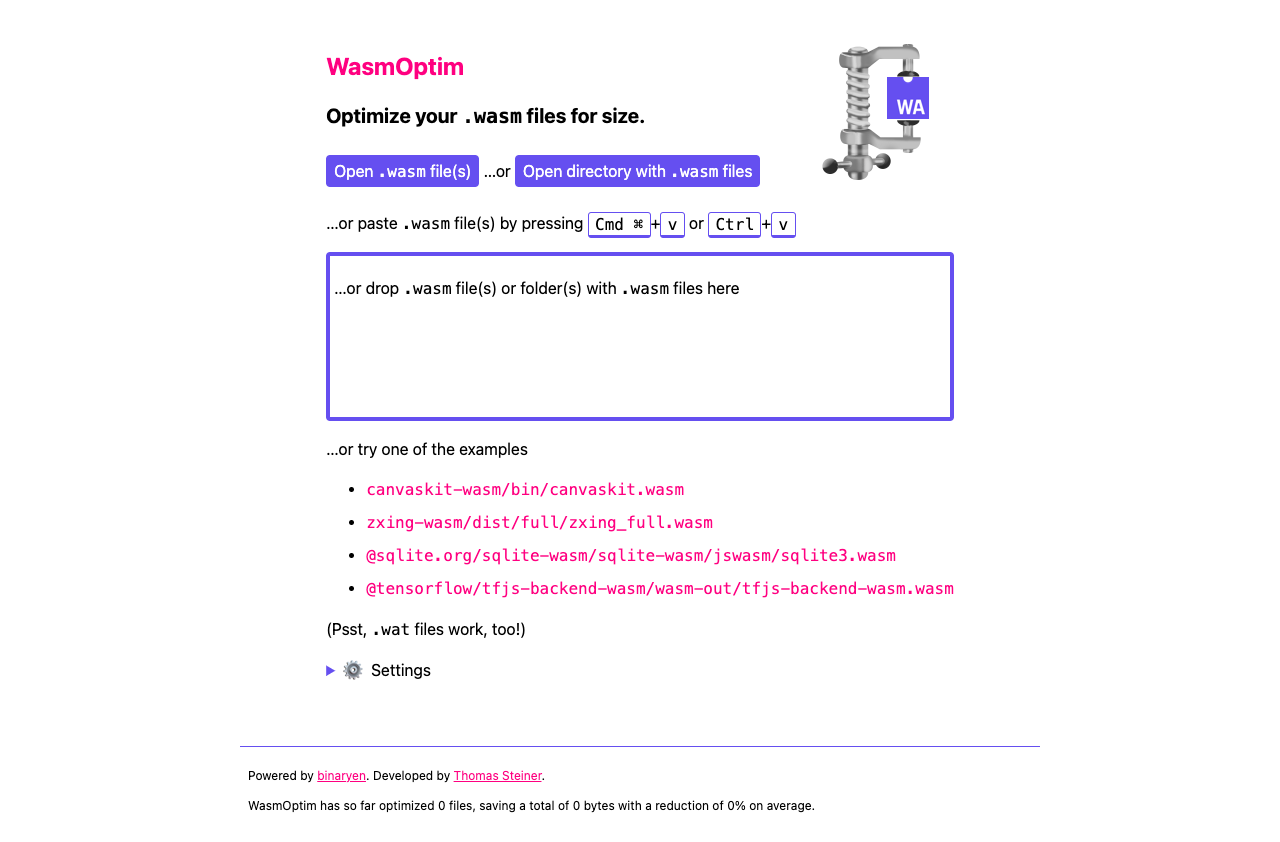
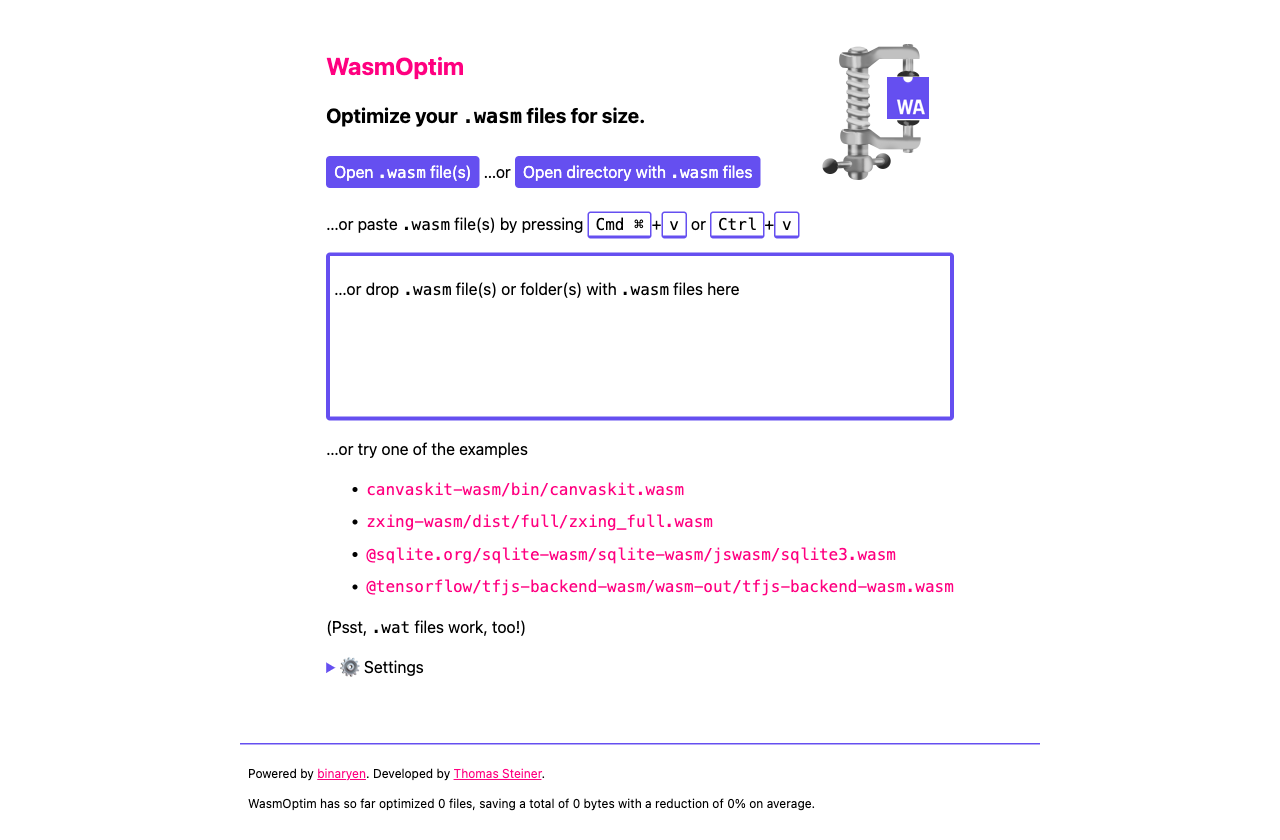
Nicer formatting of stats

diff --git a/docs/assets/index-vsgyoISD.js b/docs/assets/index-vsgyoISD.js
@@ -1,0 +1,7 @@
+(function(){const t=document.createElement("link").relList;if(t&&t.supports&&t.supports("modulepreload"))return;for(const o of document.querySelectorAll('link[rel="modulepreload"]'))r(o);new MutationObserver(o=>{for(const a of o)if(a.type==="childList")for(const s of a.addedNodes)s.tagName==="LINK"&&s.rel==="modulepreload"&&r(s)}).observe(document,{childList:!0,subtree:!0});function n(o){const a={};return o.integrity&&(a.integrity=o.integrity),o.referrerPolicy&&(a.referrerPolicy=o.referrerPolicy),o.crossOrigin==="use-credentials"?a.credentials="include":o.crossOrigin==="anonymous"?a.credentials="omit":a.credentials="same-origin",a}function r(o){if(o.ep)return;o.ep=!0;const a=n(o);fetch(o.href,a)}})();const ce="modulepreload",le=function(e){return"/wasmoptim/"+e},G={},z=function(t,n,r){if(!n||n.length===0)return t();const o=document.getElementsByTagName("link");return Promise.all(n.map(a=>{if(a=le(a),a in G)return;G[a]=!0;const s=a.endsWith(".css"),c=s?'[rel="stylesheet"]':"";if(!!r)for(let l=o.length-1;l>=0;l--){const m=o[l];if(m.href===a&&(!s||m.rel==="stylesheet"))return}else if(document.querySelector(`link[href="${a}"]${c}`))return;const d=document.createElement("link");if(d.rel=s?"stylesheet":ce,s||(d.as="script",d.crossOrigin=""),d.href=a,document.head.appendChild(d),s)return new Promise((l,m)=>{d.addEventListener("load",l),d.addEventListener("error",()=>m(new Error(`Unable to preload CSS for ${a}`)))})})).then(()=>t()).catch(a=>{const s=new Event("vite:preloadError",{cancelable:!0});if(s.payload=a,window.dispatchEvent(s),!s.defaultPrevented)throw a})},$="/wasmoptim/spinner.svg",y=new Map,K="FileSystemHandle"in window&&"getUniqueId"in FileSystemHandle.prototype,X=async e=>{for(const t of e)await t.handle.requestPermission({mode:"readwrite"})},de=async e=>{const t=[],n=async o=>{const a=await new Promise(s=>o.readEntries(s));await Promise.all(a.map(async s=>{s.isDirectory?await n(s.createReader()):t.push(s)}))},r=e.createReader();return await n(r),t},R=async(e,t,n=e.name,r)=>{const o=[],a=[];for await(const s of e.values()){const c=`${n}/${s.name}`;s.kind==="file"?a.push(s.getFile().then(i=>(i.directoryHandle=e,i.handle=s,Object.defineProperty(i,"webkitRelativePath",{configurable:!0,enumerable:!0,get:()=>c})))):s.kind==="directory"&&t&&o.push(R(s,t,c))}return[...(await Promise.all(o)).flat(),...await Promise.all(a)]},ue=["B","kB","MB","GB","TB","PB","EB","ZB","YB"],me=["B","KiB","MiB","GiB","TiB","PiB","EiB","ZiB","YiB"],fe=["b","kbit","Mbit","Gbit","Tbit","Pbit","Ebit","Zbit","Ybit"],pe=["b","kibit","Mibit","Gibit","Tibit","Pibit","Eibit","Zibit","Yibit"],Z=(e,t,n)=>{let r=e;return typeof t=="string"||Array.isArray(t)?r=e.toLocaleString(t,n):(t===!0||n!==void 0)&&(r=e.toLocaleString(void 0,n)),r};function w(e,t){if(!Number.isFinite(e))throw new TypeError(`Expected a finite number, got ${typeof e}: ${e}`);t={bits:!1,binary:!1,space:!0,...t};const n=t.bits?t.binary?pe:fe:t.binary?me:ue,r=t.space?" ":"";if(t.signed&&e===0)return` 0${r}${n[0]}`;const o=e<0,a=o?"-":t.signed?"+":"";o&&(e=-e);let s;if(t.minimumFractionDigits!==void 0&&(s={minimumFractionDigits:t.minimumFractionDigits}),t.maximumFractionDigits!==void 0&&(s={maximumFractionDigits:t.maximumFractionDigits,...s}),e<1){const l=Z(e,t.locale,s);return a+l+r+n[0]}const c=Math.min(Math.floor(t.binary?Math.log(e)/Math.log(1024):Math.log10(e)/3),n.length-1);e/=(t.binary?1024:1e3)**c,s||(e=e.toPrecision(3));const i=Z(Number(e),t.locale,s),d=n[c];return a+i+r+d}const k=(()=>{if(typeof self>"u")return!1;if("top"in self&&self!==top)try{top.window.document._=0}catch{return!1}return"showOpenFilePicker"in self})(),he=k?Promise.resolve().then(function(){return ke}):Promise.resolve().then(function(){return Fe});async function ye(...e){return(await he).default(...e)}const ge=k?Promise.resolve().then(function(){return Ee}):Promise.resolve().then(function(){return ze});async function we(...e){return(await ge).default(...e)}const ve=k?Promise.resolve().then(function(){return xe}):Promise.resolve().then(function(){return Ce});async function J(...e){return(await ve).default(...e)}const be=async e=>{const t=await e.getFile();return t.handle=e,t};var Se=async(e=[{}])=>{Array.isArray(e)||(e=[e]);const t=[];e.forEach((o,a)=>{t[a]={description:o.description||"Files",accept:{}},o.mimeTypes?o.mimeTypes.map(s=>{t[a].accept[s]=o.extensions||[]}):t[a].accept["*/*"]=o.extensions||[]});const n=await window.showOpenFilePicker({id:e[0].id,startIn:e[0].startIn,types:t,multiple:e[0].multiple||!1,excludeAcceptAllOption:e[0].excludeAcceptAllOption||!1}),r=await Promise.all(n.map(be));return e[0].multiple?r:r[0]},ke={__proto__:null,default:Se};function B(e){function t(n){if(Object(n)!==n)return Promise.reject(new TypeError(n+" is not an object."));var r=n.done;return Promise.resolve(n.value).then(function(o){return{value:o,done:r}})}return B=function(n){this.s=n,this.n=n.next},B.prototype={s:null,n:null,next:function(){return t(this.n.apply(this.s,arguments))},return:function(n){var r=this.s.return;return r===void 0?Promise.resolve({value:n,done:!0}):t(r.apply(this.s,arguments))},throw:function(n){var r=this.s.return;return r===void 0?Promise.reject(n):t(r.apply(this.s,arguments))}},new B(e)}const Q=async(e,t,n=e.name,r)=>{const o=[],a=[];var s,c=!1,i=!1;try{for(var d,l=function(m){var u,f,h,_=2;for(typeof Symbol<"u"&&(f=Symbol.asyncIterator,h=Symbol.iterator);_--;){if(f&&(u=m[f])!=null)return u.call(m);if(h&&(u=m[h])!=null)return new B(u.call(m));f="@@asyncIterator",h="@@iterator"}throw new TypeError("Object is not async iterable")}(e.values());c=!(d=await l.next()).done;c=!1){const m=d.value,u=`${n}/${m.name}`;m.kind==="file"?a.push(m.getFile().then(f=>(f.directoryHandle=e,f.handle=m,Object.defineProperty(f,"webkitRelativePath",{configurable:!0,enumerable:!0,get:()=>u})))):m.kind!=="directory"||!t||r&&r(m)||o.push(Q(m,t,u,r))}}catch(m){i=!0,s=m}finally{try{c&&l.return!=null&&await l.return()}finally{if(i)throw s}}return[...(await Promise.all(o)).flat(),...await Promise.all(a)]};var Le=async(e={})=>{e.recursive=e.recursive||!1,e.mode=e.mode||"read";const t=await window.showDirectoryPicker({id:e.id,startIn:e.startIn,mode:e.mode});return(await(await t.values()).next()).done?[t]:Q(t,e.recursive,void 0,e.skipDirectory)},Ee={__proto__:null,default:Le},Pe=async(e,t=[{}],n=null,r=!1,o=null)=>{Array.isArray(t)||(t=[t]),t[0].fileName=t[0].fileName||"Untitled";const a=[];let s=null;if(e instanceof Blob&&e.type?s=e.type:e.headers&&e.headers.get("content-type")&&(s=e.headers.get("content-type")),t.forEach((d,l)=>{a[l]={description:d.description||"Files",accept:{}},d.mimeTypes?(l===0&&s&&d.mimeTypes.push(s),d.mimeTypes.map(m=>{a[l].accept[m]=d.extensions||[]})):s?a[l].accept[s]=d.extensions||[]:a[l].accept["*/*"]=d.extensions||[]}),n)try{await n.getFile()}catch(d){if(n=null,r)throw d}const c=n||await window.showSaveFilePicker({suggestedName:t[0].fileName,id:t[0].id,startIn:t[0].startIn,types:a,excludeAcceptAllOption:t[0].excludeAcceptAllOption||!1});!n&&o&&o(c);const i=await c.createWritable();return"stream"in e?(await e.stream().pipeTo(i),c):"body"in e?(await e.body.pipeTo(i),c):(await i.write(await e),await i.close(),c)},xe={__proto__:null,default:Pe},Ae=async(e=[{}])=>(Array.isArray(e)||(e=[e]),new Promise((t,n)=>{const r=document.createElement("input");r.type="file";const o=[...e.map(i=>i.mimeTypes||[]),...e.map(i=>i.extensions||[])].join();r.multiple=e[0].multiple||!1,r.accept=o||"",r.style.display="none",document.body.append(r);const a=i=>{typeof s=="function"&&s(),t(i)},s=e[0].legacySetup&&e[0].legacySetup(a,()=>s(n),r),c=()=>{window.removeEventListener("focus",c),r.remove()};r.addEventListener("click",()=>{window.addEventListener("focus",c)}),r.addEventListener("change",()=>{window.removeEventListener("focus",c),r.remove(),a(r.multiple?Array.from(r.files):r.files[0])}),"showPicker"in HTMLInputElement.prototype?r.showPicker():r.click()})),Fe={__proto__:null,default:Ae},_e=async(e=[{}])=>(Array.isArray(e)||(e=[e]),e[0].recursive=e[0].recursive||!1,new Promise((t,n)=>{const r=document.createElement("input");r.type="file",r.webkitdirectory=!0;const o=s=>{typeof a=="function"&&a(),t(s)},a=e[0].legacySetup&&e[0].legacySetup(o,()=>a(n),r);r.addEventListener("change",()=>{let s=Array.from(r.files);e[0].recursive?e[0].recursive&&e[0].skipDirectory&&(s=s.filter(c=>c.webkitRelativePath.split("/").every(i=>!e[0].skipDirectory({name:i,kind:"directory"})))):s=s.filter(c=>c.webkitRelativePath.split("/").length===2),o(s)}),"showPicker"in HTMLInputElement.prototype?r.showPicker():r.click()})),ze={__proto__:null,default:_e},qe=async(e,t={})=>{Array.isArray(t)&&(t=t[0]);const n=document.createElement("a");let r=e;"body"in e&&(r=await async function(s,c){const i=s.getReader(),d=new ReadableStream({start:u=>async function f(){return i.read().then(({done:h,value:_})=>{if(!h)return u.enqueue(_),f();u.close()})}()}),l=new Response(d),m=await l.blob();return i.releaseLock(),new Blob([m],{type:c})}(e.body,e.headers.get("content-type"))),n.download=t.fileName||"Untitled",n.href=URL.createObjectURL(await r);const o=()=>{typeof a=="function"&&a()},a=t.legacySetup&&t.legacySetup(o,()=>a(),n);return n.addEventListener("click",()=>{setTimeout(()=>URL.revokeObjectURL(n.href),3e4),o()}),n.click(),null},Ce={__proto__:null,default:qe};const Oe=document.querySelector("#load-wasm"),ee=document.querySelector("#merge-button"),E=document.querySelector("#merge-area"),Te=document.querySelector("#load-directory"),M=document.querySelector("#drop-area"),v=document.querySelector("#results-area"),Be=document.querySelector("#total-delta-size"),De=document.querySelector("#stats-template"),Ie=document.querySelector("#example-template"),Ne=document.querySelector("#stats-header"),D=document.querySelector("#select-all-checkbox"),g=document.querySelector("#overwrite-checkbox"),P=document.querySelector("#observe-file-changes-checkbox"),S=document.querySelector("#observe-directory-changes-checkbox"),te=document.querySelector("#examples-list"),V=document.querySelector("meta[name=theme-color]"),$e=document.querySelector("#stats-files"),Re=document.querySelector("#stats-size"),Me=document.querySelector("#stats-percent"),A=crypto.randomUUID();ee.addEventListener("click",async()=>{const e=E.querySelector(".file-name"),t=E.querySelector(".before-size"),n=E.querySelector(".after-size"),r=E.querySelector(".delta-size"),o=E.querySelector(".spinner");e.hidden=!0,e.dataset.uuid=A,E.hidden=!1,o.src=$,n.classList.remove("error"),n.textContent="",r.textContent="Merging…",r.classList.remove("size-smaller"),r.classList.remove("size-larger"),r.classList.remove("error");const a=[],s=[];v.querySelectorAll("input:checked").forEach(d=>{const l=d.closest("tr").querySelector("[data-uuid]").dataset.uuid,{file:m}=y.get(l);a.push(m),s.push(l)});const c=a.reduce((d,l)=>d+l.size,0);t.textContent=`Σ ${w(c)}`;const i=new Worker(new URL("/wasmoptim/assets/merge-worker-ib07Dost.js",import.meta.url),{type:"module"});i.addEventListener("message",async d=>{if(d.data.status){r.textContent="Optimizing…";return}i.terminate();const{file:l,error:m}=d.data;if(o.removeAttribute("src"),m){const h=new Error(m);n.classList.add("error"),r.classList.add("error"),n.textContent=h.name,r.textContent=h.message;return}e.hidden=!1,e.querySelector("code").textContent=l.name,n.textContent=w(l.size);const u=l.size-c;console.log(`${new Intl.ListFormat("en",{style:"long",type:"conjunction"}).format(a.map(h=>h.name))} merged → Before Σ: ${c} After: ${l.size} Delta: ${u}`);const f=Math.abs(100-l.size/c*100).toFixed(2);r.textContent=Number(f)===0?"no change":`${f}% ${u<0?"smaller":"larger"} (${w(Math.abs(u))})`,r.classList.add(Number(f)===0?"size-larger":u<0?"size-smaller":"size-larger"),y.set(A,{file:l})}),i.postMessage({wasmFiles:a,uuids:s})});const Ue=async(e,t)=>{const n=[],r=async a=>{for(const[s,c]of a)try{n[s]=await c()}catch(i){n[s]=new Error(`Failed with: ${i.message}`)}},o=new Array(t).fill(e.entries()).map(r);return await Promise.allSettled(o),n},je=(e,t)=>{let n;return function(...o){const a=()=>{clearTimeout(n),e(...o)};clearTimeout(n),n=setTimeout(a,t)}},re="https://wasmoptim-stats.glitch.me",He=async(e,t)=>{const n={"Content-Type":"application/json"},r=JSON.stringify({beforeSize:e,afterSize:t});try{await(await fetch(`${re}/saved-bytes`,{method:"POST",headers:n,body:r})).json()}catch(o){if(location.hostname==="localhost")return;console.error(o.name,o.message)}},ne=async()=>{const e={"Content-Type":"application/json"};try{const n=await(await fetch(`${re}/saved-bytes`,{method:"GET",headers:e})).json();$e.textContent=`${new Intl.NumberFormat().format(n.entryCount)} ${n.entryCount===1?"file":"files"}`,Re.textContent=w(n.totalBytesSaved),Me.textContent=Number(n.averagePercentageSaved).toFixed(2)}catch(t){if(location.hostname==="localhost")return;console.error(t.name,t.message)}};ne();const Y="setAppBadge"in navigator;let T=0;const F=async(e,t=!1)=>{Ne.hidden=!1,v.closest("table").hidden=!1;const n=[];for(const r of e){const o=K&&r.handle?await r.handle.getUniqueId():r.name;let a,s,c,i,d,l;const m=v.querySelector(`[data-uuid="${o}"]`);if(m){const u=m.closest("tr");a=u.querySelector(".file-name"),s=u.querySelector(".before-size"),c=u.querySelector(".after-size"),i=u.querySelector(".delta-size"),d=u.querySelector(".spinner"),l=u.querySelector(".merge-checkbox")}else{const u=De.content.cloneNode(!0);a=u.querySelector(".file-name"),s=u.querySelector(".before-size"),c=u.querySelector(".after-size"),i=u.querySelector(".delta-size"),d=u.querySelector(".spinner"),l=u.querySelector(".merge-checkbox"),v.append(u);const f=v.querySelectorAll("tr").length>1;D.closest("th").style.display=f?"":"none",v.querySelectorAll("input").forEach(h=>{h.closest("td").style.display=f?"":"none"})}if(d.src=$,i.textContent="Optimizing…",i.classList.remove("size-smaller"),i.classList.remove("size-larger"),i.classList.remove("error"),c.classList.remove("error"),a.querySelector("code").textContent=r.name,a.classList.add("processing"),l.classList.add("processing"),l.disabled=!0,Y)try{await navigator.setAppBadge(++T)}catch(u){console.error(u.name,u.message)}s.textContent=w(r.size),a.dataset.uuid=o,n.push(()=>new Promise((u,f)=>{const h=new Worker(new URL("/wasmoptim/assets/binaryen-worker-vGG0wOcy.js",import.meta.url));h.addEventListener("message",async _=>{if(h.terminate(),d.removeAttribute("src"),a.classList.remove("processing"),l.classList.remove("processing"),l.disabled=!1,Y){--T;try{T===0?await navigator.clearAppBadge():await navigator.setAppBadge(T)}catch(p){console.error(p.name,p.message)}}const{wasmFileAfter:L,error:j}=_.data;if(j){const p=new Error(j);a.classList.add("error"),c.classList.add("error"),i.classList.add("error"),l.classList.add("error"),l.disabled=!0,c.textContent=p.name,i.textContent=p.message,f(p);return}c.textContent=w(L.size);const x=L.size-r.size;console.log(`${r.name} processed → Before: ${r.size} After: ${L.size} Delta: ${x}`);const N=Math.abs(100-L.size/r.size*100).toFixed(2);i.textContent=Number(N)===0?"no change":`${N}% ${x<0?"smaller":"larger"} (${w(Math.abs(x))})`,i.classList.add(Number(N)===0?"size-larger":x<0?"size-smaller":"size-larger"),y.set(o,{file:L,handle:r.handle,savings:x});const H=[];for(const[p,{savings:O}]of y.entries())p!==A&&H.push(O);const W=H.reduce((p,O)=>p+O,0),ie=W/y.size;if(Be.textContent=`Saved ${w(Math.abs(W))} in total and ${w(Math.abs(ie))} per file on average`,x<0&&(He(r.size,L.size).then(()=>ne()),oe&&k&&g.checked&&r.handle))try{const p=await r.handle.createWritable();await p.write(L),await p.close()}catch(p){console.error(p.name,p.message)}if(I&&P.checked&&r.handle){const{getFileSystemChangeObserver:p}=await z(()=>Promise.resolve().then(()=>se),void 0);p().observe(r.handle),console.log(`File ${r.name} → Observing changes`)}u()}),h.postMessage({wasmFileBefore:r})}))}await Ue(n,"hardwareConcurrency"in navigator?Math.floor(navigator.hardwareConcurrency):4)},q=new Set;let b=null;const We=async e=>{console.log("File system changes detected",e);let t=[];for(const n of e)if(n.type==="modified"){if(n.changedHandle instanceof FileSystemFileHandle){const r=await n.changedHandle.getFile();console.log(`File ${r.name} modified → Re-optimizing`),r.handle=n.changedHandle,t.push(r)}else if(n.changedHandle instanceof FileSystemDirectoryHandle){const r=n.changedHandle;let o=await R(r,!0);console.log(`Directory ${n.changedHandle.name} modified → Getting entries`),o=o.filter(i=>i.type==="application/wasm"||i.name.endsWith(".wasm")||i.name.endsWith(".wat")),t.push(...o);const a=Array.from(y.keys()),s=t.map(async i=>K?await i.handle.getUniqueId():i.name),c=await Promise.all(s);t=t.filter((i,d)=>{const l=c[d];return!a.includes(l)})}}t=[...new Set(t)],F(t)},C=()=>(b||(b=new FileSystemObserver(je(e=>{We(e)},250))),b);localStorage.getItem("observe-file-changes")!=="true"?P.checked=!1:P.checked=!0;localStorage.getItem("observe-directory-changes")!=="true"?S.checked=!1:S.checked=!0;P.parentNode.hidden=!1;P.addEventListener("change",()=>{if(localStorage.setItem("observe-file-changes",P.checked),P.checked){C();for(const[e,{handle:t}]of y.entries())e===A||!t||(b.observe(t),console.log(`File ${t.name} → Observing changes`));return}if(b)for(const[e,{handle:t}]of y.entries())e===A||!t||(b.unobserve(t),console.log(`File ${t.name} → No longer observing changes`))});S.parentNode.hidden=!1;S.addEventListener("change",()=>{if(localStorage.setItem("observe-directory-changes",S.checked),S.checked){C();for(const e of q)b.observe(e),console.log(`Directory ${e.name} → Observing changes`);return}if(b)for(const e of q)b.unobserve(e),console.log(`Directory ${e.name} → No longer observing changes`)});const se=Object.freeze(Object.defineProperty({__proto__:null,getFileSystemChangeObserver:C,observedDirectories:q},Symbol.toStringTag,{value:"Module"}));k&&(g.parentNode.hidden=!1,g.addEventListener("change",()=>{localStorage.setItem("overwrite-original-files",g.checked);const e=[];if(g.checked){for(const[t,{file:n}]of y.entries())t===A||!n.handle||e.push(n);X(e)}}),localStorage.getItem("overwrite-original-files")!=="true"?g.checked=!1:g.checked=!0);const Ge=["https://unpkg.com/canvaskit-wasm@0.39.1/bin/canvaskit.wasm","https://unpkg.com/zxing-wasm@1.0.0-rc.4/dist/full/zxing_full.wasm","https://unpkg.com/@sqlite.org/sqlite-wasm@3.44.0-build1/sqlite-wasm/jswasm/sqlite3.wasm","https://unpkg.com/@tensorflow/tfjs-backend-wasm@4.13.0/wasm-out/tfjs-backend-wasm.wasm"],Ze=/@(0|[1-9]\d*)\.(0|[1-9]\d*)\.(0|[1-9]\d*)(?:-((?:0|[1-9]\d*|\d*[a-zA-Z-][0-9a-zA-Z-]*)(?:\.(?:0|[1-9]\d*|\d*[a-zA-Z-][0-9a-zA-Z-]*))*))?(?:\+([0-9a-zA-Z-]+(?:\.[0-9a-zA-Z-]+)*))?/;Ge.forEach(e=>{const t=Ie.content.cloneNode(!0),n=t.querySelector("code"),r=t.querySelector("a");n.textContent=e.replace("https://unpkg.com/","").replace(Ze,""),r.href=e,te.append(t)});te.addEventListener("click",async e=>{const t=e.target.nodeName.toLowerCase();if(t!=="a"&&t!=="code")return;e.preventDefault();const n=e.target.closest("a"),r=n.href,o=n.parentNode.querySelector(".downloading");o.textContent="Downloading…",o.classList.remove("error"),o.hidden=!1;const a=n.parentNode.querySelector("img");a.src=$;try{const s=await fetch(r).then(i=>i.blob());a.removeAttribute("src"),o.hidden=!0;const c=new File([s],r.split("/").pop(),{type:"application/wasm"});c.handle=!1,F([c])}catch(s){console.error(s.name,s.message),a.removeAttribute("src"),o.classList.add("error"),o.textContent=s.message}});document.addEventListener("paste",e=>{try{if(!e.clipboardData.files.length)return;const t=Array.from(e.clipboardData.files).filter(n=>n.type==="application/wasm"||n.name.endsWith(".wasm")||n.name.endsWith(".wat"));F(t)}catch(t){console.error(t.name,t.message)}});const U=()=>{const e=v.querySelectorAll("input:checked").length;ee.style.display=e<2?"none":""};U();D.addEventListener("click",()=>{v.querySelectorAll("input:not(:disabled)").forEach(e=>{e.checked=D.checked}),U()});v.addEventListener("click",async e=>{const t=e.target.nodeName.toLowerCase();if(t==="input"||t==="label"){if(e.target.classList.contains("error")||e.target.classList.contains("processing"))return;e.target.checked||(D.checked=!1),U();return}if(t!=="a"&&t!=="code")return;e.preventDefault();const n=e.target.closest("a");if(!n.classList.contains("file-name")||n.classList.contains("error")||n.classList.contains("processing"))return;const r=n.dataset.uuid,{file:o,handle:a}=y.get(r);try{await J(o,{fileName:o.name,extensions:[".wasm",".wat"],mimeTypes:["application/wasm"],existingHandle:a||void 0,startIn:a||void 0})}catch(s){if(s.name==="AbortError")return;console.error(s.name,s.message)}});E.addEventListener("click",async e=>{const t=e.target.nodeName.toLowerCase();if(t!=="a"&&t!=="code")return;e.preventDefault();const n=e.target.closest("a");if(!n.classList.contains("file-name")||n.classList.contains("error")||n.classList.contains("processing"))return;const r=n.dataset.uuid,{file:o,handle:a}=y.get(r);try{await J(o,{fileName:o.name,extensions:[".wasm"],mimeTypes:["application/wasm"],existingHandle:a||void 0,startIn:a||void 0})}catch(s){if(s.name==="AbortError")return;console.error(s.name,s.message)}});Te.addEventListener("click",async()=>{try{const e=await we({recursive:!0,mode:g.checked?"readwrite":"read"}),t=e.filter(n=>n.type==="application/wasm"||n.name.endsWith(".wasm")||n.name.endsWith(".wat"));if(k&&I&&S.checked){let n=[];for(const o of e)n.push(o.directoryHandle);n=[...new Set(n)];const r=C();n.forEach(o=>{r.observe(o,{recursive:!0}),q.add(o),console.log(`Directory ${o.name} → Observing changes`)})}F(t)}catch(e){if(e.name==="AbortError")return;console.error(e.name,e.message)}});Oe.addEventListener("click",async()=>{try{const e=await ye({mimeTypes:["application/wasm"],extensions:[".wasm",".wat"],multiple:!0});if(!e||!e.length)return;F(e)}catch(e){if(e.name==="AbortError")return;console.error(e.name,e.message)}});document.addEventListener("dragover",e=>{e.preventDefault()});document.addEventListener("dragenter",e=>{e.preventDefault(),M.classList.add("drag-hover")});document.addEventListener("dragleave",e=>{e.preventDefault(),e.target===document.documentElement&&M.classList.remove("drag-hover")});document.addEventListener("drop",async e=>{e.preventDefault(),M.classList.remove("drag-hover");const t=[...e.dataTransfer.items].filter(r=>r.kind==="file").map(r=>oe?r.getAsFileSystemHandle():r.webkitGetAsEntry()),n=[];for await(const r of t){if(r.kind==="directory"){let a=await R(r,!0);if(a=a.filter(s=>s.type==="application/wasm"||s.name.endsWith(".wasm")||s.name.endsWith(".wat")),n.push(...a),I&&S.checked){let s=[];for(const i of a)s.push(i.directoryHandle);s=[...new Set(s)];const c=C();s.forEach(i=>{c.observe(i,{recursive:!0}),q.add(i),console.log(`Directory ${i.name} → Observing changes`)})}continue}else if(r.isDirectory){let a=await de(r);a=a.filter(s=>s.name.endsWith(".wasm")||s.name.endsWith(".wat")),n.push(...await Promise.all(a.map(async s=>new Promise(c=>s.file(c)))));continue}let o;r.kind==="file"?(o=await r.getFile(),o.handle=r):r.isFile&&(o=await new Promise(a=>r.file(s=>a(s)))),!(o.type&&o.type!=="application/wasm"||!o.name.endsWith(".wasm")&&!o.name.endsWith(".wat"))&&n.push(o)}k&&k&&g.checked&&await X(n),F(n)});const ae=e=>{if(e.matches){V.content="rgb(32, 33, 36)";return}V.content="#fff"};matchMedia("(prefers-color-scheme: dark)").addEventListener("change",ae);ae(matchMedia("(prefers-color-scheme: dark)"));const oe="getAsFileSystemHandle"in DataTransferItem.prototype,I="FileSystemObserver"in window;(async()=>{if(I&&z(()=>Promise.resolve().then(()=>se),void 0),"launchQueue"in window&&"files"in LaunchParams.prototype&&z(()=>import("./file-handling-wuCxQmi7.js"),__vite__mapDeps([])),"serviceWorker"in navigator){const{registerSW:e}=await z(()=>import("./virtual_pwa-register-4GNnbKOC.js"),__vite__mapDeps([]));e({onOfflineReady(){},onNeedRefresh(){location.reload()}})(),"share"in navigator&&z(()=>import("./web-share-target-O0yJg1MM.js"),__vite__mapDeps([]))}})();export{z as _,F as a,X as c,k as e,g as o};
+function __vite__mapDeps(indexes) {
+  if (!__vite__mapDeps.viteFileDeps) {
+    __vite__mapDeps.viteFileDeps = []
+  }
+  return indexes.map((i) => __vite__mapDeps.viteFileDeps[i])
+}

diff --git a/docs/sw.js b/docs/sw.js
@@ -1,1 +1,1 @@
-if(!self.define){let e,s={};const r=(r,i)=>(r=new URL(r+".js",i).href,s[r]||new Promise((s=>{if("document"in self){const e=document.createElement("script");e.src=r,e.onload=s,document.head.appendChild(e)}else e=r,importScripts(r),s()})).then((()=>{let e=s[r];if(!e)throw new Error(`Module ${r} didn’t register its module`);return e})));self.define=(i,n)=>{const l=e||("document"in self?document.currentScript.src:"")||location.href;if(s[l])return;let o={};const a=e=>r(e,l),t={module:{uri:l},exports:o,require:a};s[l]=Promise.all(i.map((e=>t[e]||a(e)))).then((e=>(n(...e),o)))}}define(["./workbox-fa446783"],(function(e){"use strict";self.skipWaiting(),e.clientsClaim(),e.precacheAndRoute([{url:"assets/binaryen_wasm-jWqOSAAT.js",revision:null},{url:"assets/binaryen_wasm-oRR6JeeR.js",revision:null},{url:"assets/binaryen_wasm-r8Q--SC0.wasm",revision:null},{url:"assets/binaryen-worker-vGG0wOcy.js",revision:null},{url:"assets/file-handling-E341wfff.js",revision:null},{url:"assets/index-_g3ZqQuy.js",revision:null},{url:"assets/index-5JlHWayF.css",revision:null},{url:"assets/index-5tyMNrCW.js",revision:null},{url:"assets/merge-worker-ib07Dost.js",revision:null},{url:"assets/virtual_pwa-register-_xjRFTwc.js",revision:null},{url:"assets/wasm-merge-7ok0ZlNP.js",revision:null},{url:"assets/wasm-merge-e5IqBEBc.wasm",revision:null},{url:"assets/wasm-merge-zZ-7ha50.js",revision:null},{url:"assets/web-share-target-mQc0NmZR.js",revision:null},{url:"assets/workbox-window.prod.es5-prqDwDSL.js",revision:null},{url:"icon.png",revision:"6ccc68d8ea198758b158766f5a9b8f7c"},{url:"index.html",revision:"a14623bc3803b0bb08f51e6b487e0de4"},{url:"maskable-icon.png",revision:"505ab550035e060645545981c3f01b33"},{url:"screenshot-desktop-dark.png",revision:"ec79e7dc29483a5cafdc1bd8c5048ab4"},{url:"screenshot-desktop-light.png",revision:"f1662d767e06603d9cdaef5e2b3efb0e"},{url:"screenshot-mobile-dark.png",revision:"aca54e7b52e763bb920018ad593569fb"},{url:"screenshot-mobile-light.png",revision:"a477b6566418196a46b06f0764d9c6e2"},{url:"sharetargetsw.js",revision:"d874c39e9aeea426e3b64f666e6fd550"},{url:"spinner.svg",revision:"068c25a9cdb15f2d3095a21aff1becc4"},{url:"wasm-icon.svg",revision:"dd206e361d35fd8a49d9375ad548b68c"},{url:"maskable-icon.png",revision:"505ab550035e060645545981c3f01b33"},{url:"icon.png",revision:"6ccc68d8ea198758b158766f5a9b8f7c"},{url:"manifest.webmanifest",revision:"e5bf6986dd9172022154701161ee1873"}],{}),e.cleanupOutdatedCaches(),e.registerRoute(new e.NavigationRoute(e.createHandlerBoundToURL("index.html")))}));
+if(!self.define){let e,s={};const r=(r,i)=>(r=new URL(r+".js",i).href,s[r]||new Promise((s=>{if("document"in self){const e=document.createElement("script");e.src=r,e.onload=s,document.head.appendChild(e)}else e=r,importScripts(r),s()})).then((()=>{let e=s[r];if(!e)throw new Error(`Module ${r} didn’t register its module`);return e})));self.define=(i,n)=>{const l=e||("document"in self?document.currentScript.src:"")||location.href;if(s[l])return;let o={};const a=e=>r(e,l),t={module:{uri:l},exports:o,require:a};s[l]=Promise.all(i.map((e=>t[e]||a(e)))).then((e=>(n(...e),o)))}}define(["./workbox-fa446783"],(function(e){"use strict";self.skipWaiting(),e.clientsClaim(),e.precacheAndRoute([{url:"assets/binaryen_wasm-jWqOSAAT.js",revision:null},{url:"assets/binaryen_wasm-oRR6JeeR.js",revision:null},{url:"assets/binaryen_wasm-r8Q--SC0.wasm",revision:null},{url:"assets/binaryen-worker-vGG0wOcy.js",revision:null},{url:"assets/file-handling-wuCxQmi7.js",revision:null},{url:"assets/index-5JlHWayF.css",revision:null},{url:"assets/index-5tyMNrCW.js",revision:null},{url:"assets/index-vsgyoISD.js",revision:null},{url:"assets/merge-worker-ib07Dost.js",revision:null},{url:"assets/virtual_pwa-register-4GNnbKOC.js",revision:null},{url:"assets/wasm-merge-7ok0ZlNP.js",revision:null},{url:"assets/wasm-merge-e5IqBEBc.wasm",revision:null},{url:"assets/wasm-merge-zZ-7ha50.js",revision:null},{url:"assets/web-share-target-O0yJg1MM.js",revision:null},{url:"assets/workbox-window.prod.es5-prqDwDSL.js",revision:null},{url:"icon.png",revision:"6ccc68d8ea198758b158766f5a9b8f7c"},{url:"index.html",revision:"e5e572db2d02f94d3c7b08dc10040422"},{url:"maskable-icon.png",revision:"505ab550035e060645545981c3f01b33"},{url:"screenshot-desktop-dark.png",revision:"ec79e7dc29483a5cafdc1bd8c5048ab4"},{url:"screenshot-desktop-light.png",revision:"f1662d767e06603d9cdaef5e2b3efb0e"},{url:"screenshot-mobile-dark.png",revision:"401fc7bf8aad4c544900dc754b8eb3bd"},{url:"screenshot-mobile-light.png",revision:"2d42196aff81781523811f68e51bf63e"},{url:"sharetargetsw.js",revision:"d874c39e9aeea426e3b64f666e6fd550"},{url:"spinner.svg",revision:"068c25a9cdb15f2d3095a21aff1becc4"},{url:"wasm-icon.svg",revision:"dd206e361d35fd8a49d9375ad548b68c"},{url:"maskable-icon.png",revision:"505ab550035e060645545981c3f01b33"},{url:"icon.png",revision:"6ccc68d8ea198758b158766f5a9b8f7c"},{url:"manifest.webmanifest",revision:"e5bf6986dd9172022154701161ee1873"}],{}),e.cleanupOutdatedCaches(),e.registerRoute(new e.NavigationRoute(e.createHandlerBoundToURL("index.html")))}));

diff --git a/docs/assets/virtual_pwa-register-4GNnbKOC.js b/docs/assets/virtual_pwa-register-4GNnbKOC.js
@@ -1,0 +1,7 @@
+import{_ as f}from"./index-vsgyoISD.js";function g(o={}){const{immediate:a=!1,onNeedRefresh:p,onOfflineReady:n,onRegistered:d,onRegisteredSW:i,onRegisterError:c}=o;let t,r;const l=async(s=!0)=>{await r};async function m(){if("serviceWorker"in navigator){const{Workbox:s}=await f(()=>import("./workbox-window.prod.es5-prqDwDSL.js"),__vite__mapDeps([]));t=new s("/wasmoptim/sw.js",{scope:"/wasmoptim/",type:"classic"}),t.addEventListener("activated",e=>{(e.isUpdate||e.isExternal)&&window.location.reload()}),t.addEventListener("installed",e=>{e.isUpdate||n?.()}),t.register({immediate:a}).then(e=>{i?i("/wasmoptim/sw.js",e):d?.(e)}).catch(e=>{c?.(e)})}}return r=m(),l}export{g as registerSW};
+function __vite__mapDeps(indexes) {
+  if (!__vite__mapDeps.viteFileDeps) {
+    __vite__mapDeps.viteFileDeps = []
+  }
+  return indexes.map((i) => __vite__mapDeps.viteFileDeps[i])
+}

diff --git a/docs/assets/web-share-target-O0yJg1MM.js b/docs/assets/web-share-target-O0yJg1MM.js
@@ -1,0 +1,1 @@
+import{a as n}from"./index-vsgyoISD.js";(async()=>{try{await navigator.serviceWorker.register("./sharetargetsw.js",{scope:"./share-target/"})}catch(a){console.error(a.name,a.message)}if(location.search.includes("share-target"))try{const r=new URLSearchParams(location.search).get("share-target"),t=await caches.keys(),e=await caches.open(t.filter(i=>i.startsWith("media"))[0]),c=await e.match("shared-wasm-file");await e.delete("shared-wasm-file");const o=await c.blob(),s=new File([o],r,{type:"application/wasm"});s.handle=!1,n([s])}catch(a){console.error(a.name,a.message)}})();

diff --git a/stats.js b/stats.js
@@ -34,9 +34,9 @@ const getStats = async () => {
     });
 
     const stats = await statsResponse.json();
-    statsFiles.textContent = `${stats.entryCount} ${
-      stats.entryCount === 1 ? 'file' : 'files'
-    }`;
+    statsFiles.textContent = `${new Intl.NumberFormat().format(
+      stats.entryCount,
+    )} ${stats.entryCount === 1 ? 'file' : 'files'}`;
     statsSize.textContent = prettyBytes(stats.totalBytesSaved);
     statsPercent.textContent = Number(stats.averagePercentageSaved).toFixed(2);
   } catch (error) {

diff --git a/docs/index.html b/docs/index.html
@@ -69,7 +69,7 @@
     <meta name="twitter:url" content="https://tomayac.github.io/wasmoptim/" />
 
     <title>WasmOptim</title>
-    <script type="module" crossorigin src="/wasmoptim/assets/index-_g3ZqQuy.js"></script>
+    <script type="module" crossorigin src="/wasmoptim/assets/index-vsgyoISD.js"></script>
     <link rel="stylesheet" crossorigin href="/wasmoptim/assets/index-5JlHWayF.css">
   <link rel="manifest" href="/wasmoptim/manifest.webmanifest"></head>
   <body>

diff --git a/docs/assets/file-handling-wuCxQmi7.js b/docs/assets/file-handling-wuCxQmi7.js
@@ -1,0 +1,1 @@
+import{e as t,o as a,c as n,a as c}from"./index-vsgyoISD.js";launchQueue.setConsumer(async i=>{if(!i.files.length)return;const s=[];for(const o of i.files){const e=await o.getFile();e.handle=o,!(e.type&&e.type!=="application/wasm"||!e.name.endsWith(".wasm")&&!e.name.endsWith(".wat"))&&s.push(e)}t&&a.checked&&await n(s),c(s)});
